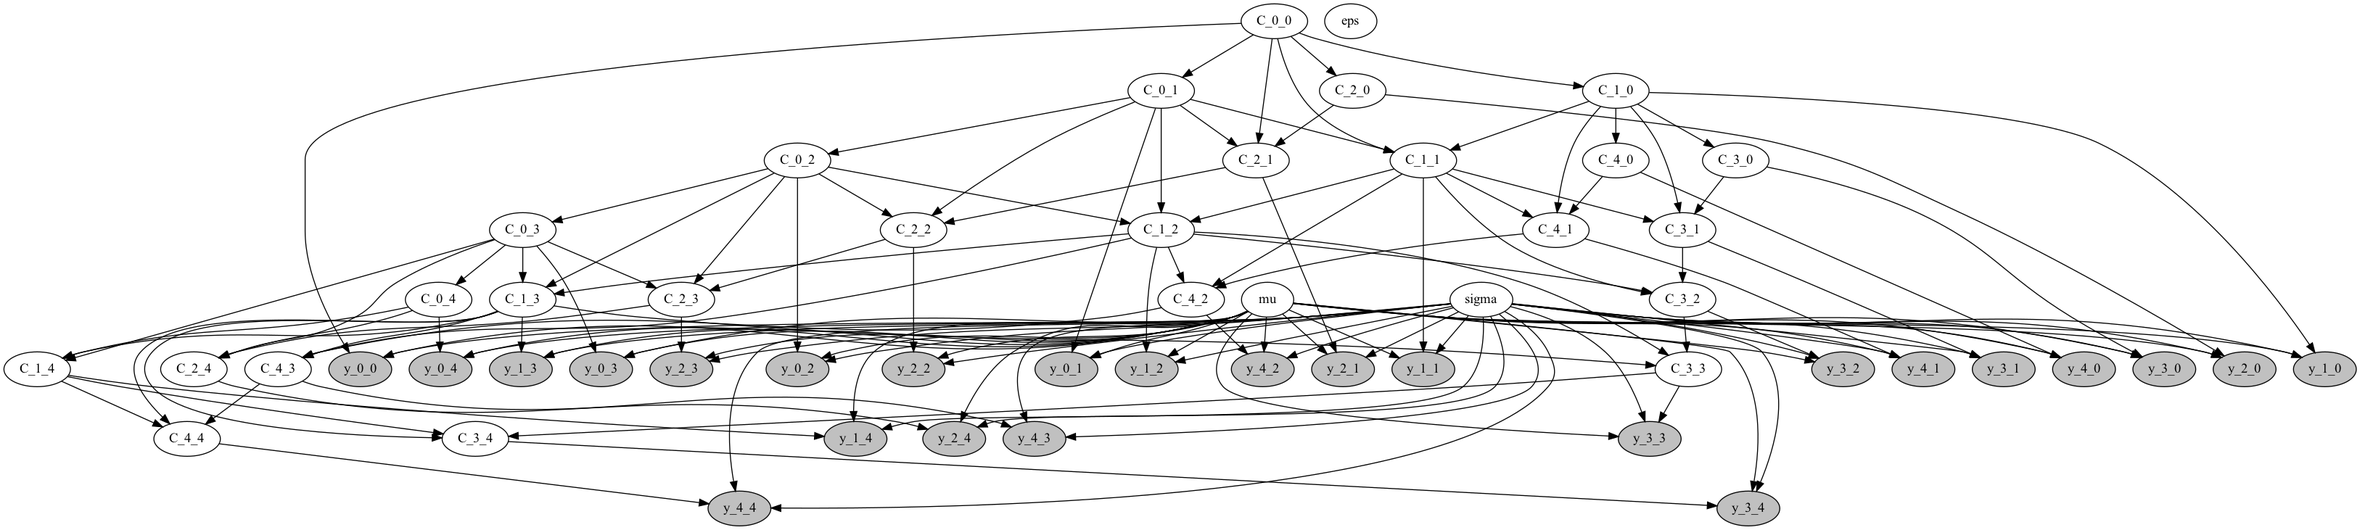
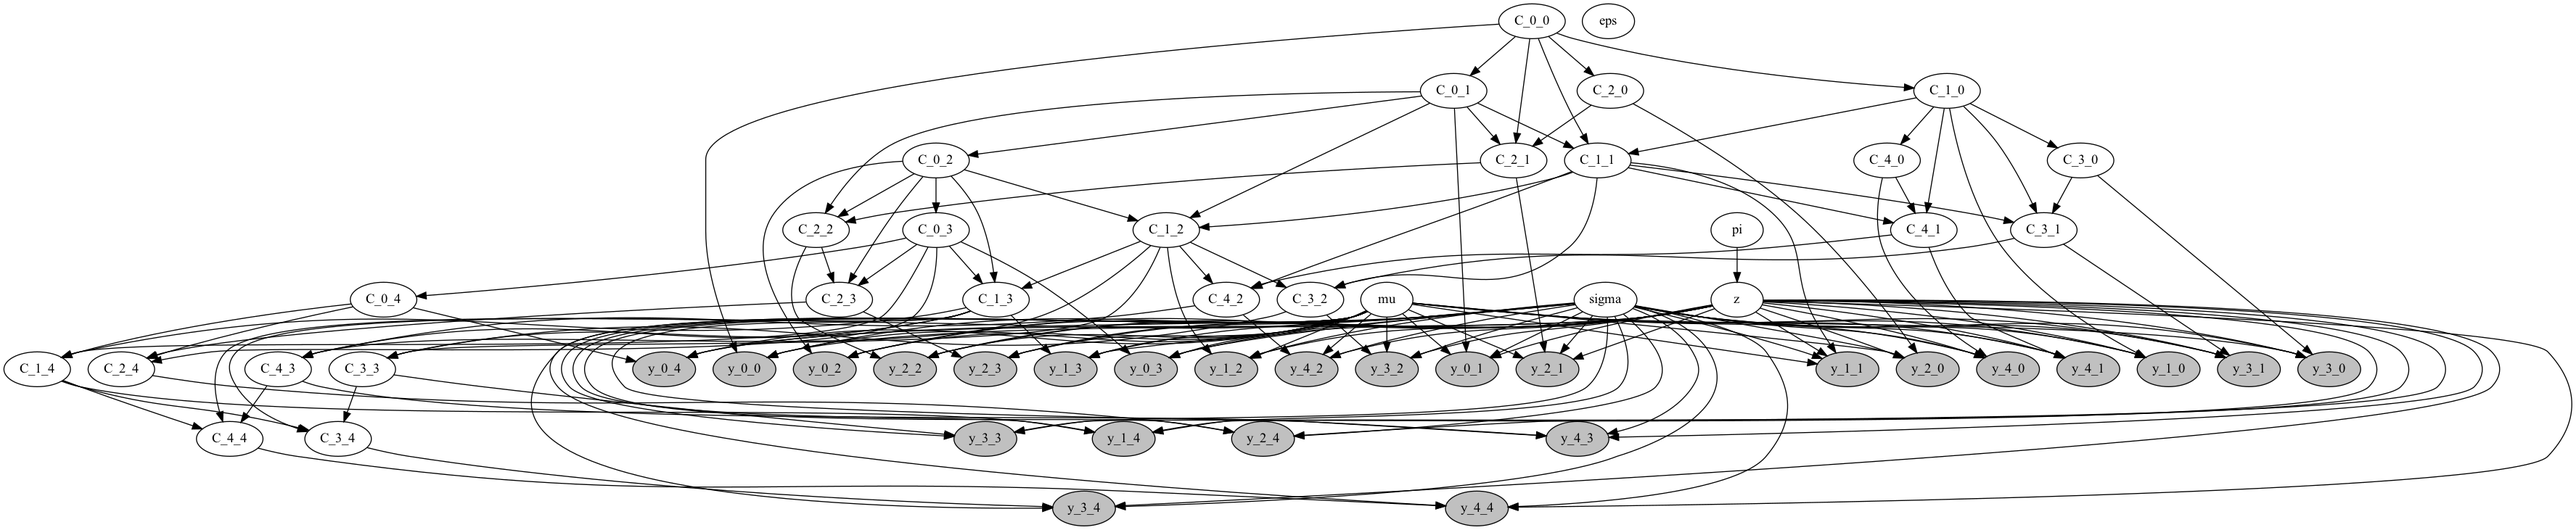
added all parameters (cell assignments included) - eps still to be fixed

diff --git a/main.py b/main.py
@@ -46,13 +46,16 @@ def model_tree_markov(data, n_cells, n_sites, n_copy_states, tree: nx.DiGraph):
     cpd = treeHMM.cpd_table
     pair_cpd = treeHMM.cpd_pair_table
 
-    # TODO: add cell assignment sampling
-    # pi = pyro.sample(dirich)
-    # z = pyro.sample(categor)
+    # cell assignments
+    # dirichlet param vector (uniform)
+    dir_alpha = torch.ones(n_nodes)
+
+    pi = pyro.sample("pi", dist.Dirichlet(dir_alpha))
+    z = pyro.sample("z", dist.Categorical(pi).expand([n_cells]))
 
     # variables to store complete data in
     C_dict = {}
-    y = torch.zeros(n_nodes, n_sites, n_cells)
+    y = torch.zeros(n_sites, n_cells)
 
     # dist for root note (dirac on C_r_m)
     prior_tensor = torch.eye(n_copy_states)
@@ -68,8 +71,8 @@ def model_tree_markov(data, n_cells, n_sites, n_copy_states, tree: nx.DiGraph):
                 C_r_m = pyro.sample("C_{}_{}".format(0, m), dist.Categorical(prior_tensor[C_r_m, :]))
 
                 C_dict[0, m] = C_r_m
-                y[0, m] = pyro.sample("y_{}_{}".format(0, m), dist.Normal(mu * C_r_m, sigma2.sqrt()),
-                                    obs=data[m])
+                y[m, z == u] = pyro.sample("y_{}_{}".format(0, m), dist.Normal(mu[z == u] * C_r_m, sigma2.sqrt()),
+                                    obs=data[m, z == u])
         # inner nodes
         else:
             p = [pred for pred in tree.predecessors(u)][0]
@@ -97,13 +100,14 @@ def model_tree_markov(data, n_cells, n_sites, n_copy_states, tree: nx.DiGraph):
 
                 # save values in dict
                 C_dict[u, m] = C_u_m
-                y[u, m] = pyro.sample("y_{}_{}".format(u, m), dist.Normal(mu * C_u_m, sigma2.sqrt()), obs=data[m])
+                y[m, z == u] = pyro.sample("y_{}_{}".format(u, m), dist.Normal(mu[z == u] * C_u_m, sigma2.sqrt()),
+                                      obs=data[m, z == u])
 
     C = torch.empty((n_nodes, n_sites))
     for u, m in C_dict.keys():
         C[u, m] = C_dict[u,m]
 
-    return C, y
+    return C, y, z
 
 
 def main(args):
@@ -111,10 +115,12 @@ def main(args):
         torch.set_default_tensor_type("torch.cuda.FloatTensor")
 
     # params
-    n_cells = 3
+    n_cells = 10
     n_sites = 5
     n_copy_states = 5
+
     data = torch.ones(n_sites, n_cells)
+
     tree = nx.DiGraph()
     tree.add_edge(0, 1)
     tree.add_edge(0, 2)
@@ -135,10 +141,10 @@ def main(args):
     # using "uncondition" handler
     unconditioned_model = poutine.uncondition(model_tree_markov)
     #C_r, C_u, y_u = unconditioned_model(data, n_cells, n_sites, n_copy_states, )
-    C, y = unconditioned_model(data, n_cells, n_sites, n_copy_states, tree, )
+    C, y, z = unconditioned_model(data, n_cells, n_sites, n_copy_states, tree, )
     print(f"C: {C}")
-    #print(f"C_u: {C_u}")
     print(f"y: {y}")
+    print(f"z: {z}")
 
 
 if __name__ == '__main__':
